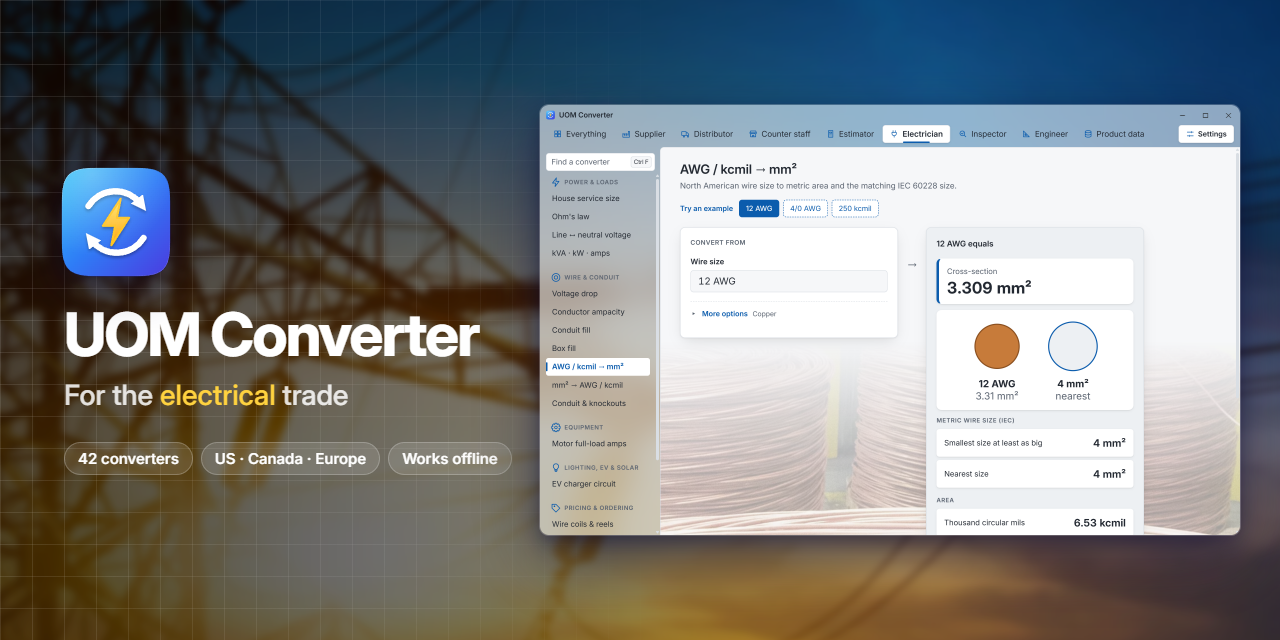
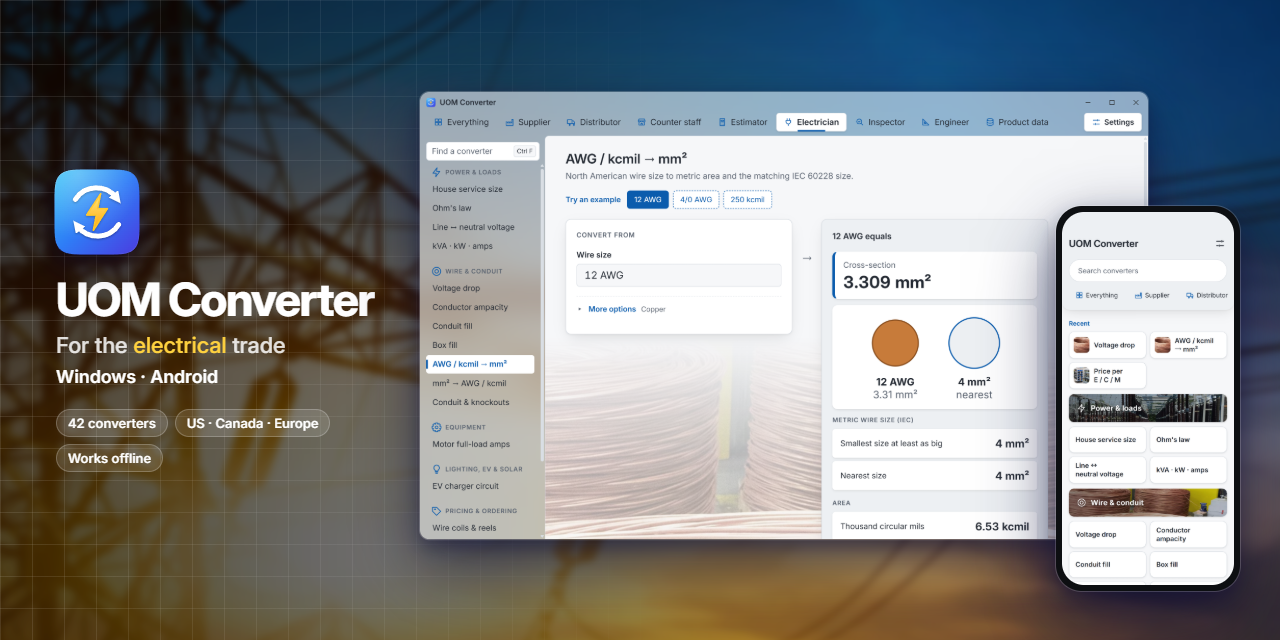
Social preview: both apps, the window and the phone larger
- The Android app's home screen, on a phone, in front of the Windows window
- "Windows · Android" under the tagline; the name and facts smaller
- android:store runs before windows:assets, and the render stops without the phone's capture

diff --git a/apps/windows/store-listing/generator/social.html b/apps/windows/store-listing/generator/social.html
@@ -1,7 +1,8 @@
 <!doctype html>
 <!-- GitHub's social preview, the card shown when the repo's link is shared: render.cjs loads this page at 1280 × 640 into
      docs/social-preview.png, which is uploaded in the repo's Settings. GitHub crops a little off the edges in places,
-     so everything stays 40px clear of them. The app is the promo shot's capture, and the words are in captions.js. -->
+     so everything stays 40px clear of them. It shows both apps: the Windows window is the promo shot's capture, and
+     the phone is the Android app's home screen, captured by `npm run android:store`. The words are in captions.js. -->
 <html lang="en">
   <head>
     <meta charset="utf-8" />
@@ -13,29 +14,30 @@
       /* The grid fades out behind the app. */
       body::after { mask-image: linear-gradient(90deg, #000 0%, rgba(0, 0, 0, 0.5) 34%, transparent 52%); }
 
-      .caption { position: absolute; left: 64px; top: 0; bottom: 0; width: 450px; display: flex; flex-direction: column; justify-content: center; }
-      .caption img { width: 112px; height: 112px; margin-left: -4px; filter: drop-shadow(0 10px 20px rgba(8, 10, 60, 0.5)); }
-      h1 { margin: 26px 0 0; font-size: 60px; line-height: 1; font-weight: 760; letter-spacing: -0.03em; font-variation-settings: "opsz" 32; }
-      .caption p { margin: 14px 0 0; font-size: 28px; font-weight: 520; color: rgba(255, 255, 255, 0.85); }
+      .caption { position: absolute; left: 56px; top: 0; bottom: 0; width: 340px; display: flex; flex-direction: column; justify-content: center; }
+      .caption img { width: 88px; height: 88px; margin-left: -3px; filter: drop-shadow(0 8px 16px rgba(8, 10, 60, 0.5)); }
+      h1 { margin: 20px 0 0; font-size: 46px; line-height: 1; font-weight: 760; letter-spacing: -0.03em; font-variation-settings: "opsz" 32; }
+      .caption p { margin: 10px 0 0; font-size: 22px; font-weight: 520; color: rgba(255, 255, 255, 0.85); }
       .caption p em { font-style: normal; color: var(--bolt); }
+      .caption .platforms { margin-top: 8px; font-size: 18px; font-weight: 600; color: #fff; }
 
-      .facts { display: flex; flex-wrap: wrap; gap: 8px; margin-top: 30px; }
+      .facts { display: flex; flex-wrap: wrap; gap: 7px; margin-top: 22px; }
       .facts span {
-        padding: 6px 13px;
+        padding: 5px 11px;
         border-radius: 999px;
-        font-size: 15px;
+        font-size: 13px;
         font-weight: 560;
         background: rgba(255, 255, 255, 0.12);
         border: 1px solid rgba(255, 255, 255, 0.22);
       }
 
-      /* The app window, as in shots.html: 1400 × 860 at half size, whole, with Windows 11's corners and a deep shadow. */
+      /* The app window, as in shots.html: 1400 × 860 at 0.52, whole, with Windows 11's corners and a deep shadow. */
       .window {
         position: absolute;
-        left: 540px;
-        top: 105px;
+        left: 420px;
+        top: 92px;
         width: 1400px;
-        transform: scale(0.5);
+        transform: scale(0.52);
         transform-origin: top left;
         border-radius: 18px;
         overflow: hidden;
@@ -50,6 +52,22 @@
       /* The minimize, maximize and close buttons Windows draws over the page's own title bar. */
       .caption-buttons { position: absolute; top: 0; right: 0; display: flex; color: #1c1b19; }
       .caption-buttons i { width: 46px; height: 40px; display: grid; place-items: center; font: normal 10px "Segoe Fluent Icons", "Segoe MDL2 Assets"; }
+
+      /* The phone, in the Play screenshots' slim black bezel (the Android app's shots.html), whole and in front of the
+         window's right edge, clear of its answer. */
+      .phone {
+        position: absolute;
+        left: 1056px;
+        top: 206px;
+        padding: 6px;
+        border-radius: 26px;
+        background: #0d0f12;
+        box-shadow:
+          0 0 0 1px rgba(255, 255, 255, 0.18),
+          0 30px 70px rgba(5, 8, 50, 0.65),
+          0 10px 24px rgba(5, 8, 50, 0.4);
+      }
+      .phone img { display: block; width: 172px; border-radius: 22px; }
     </style>
   </head>
   <body>
@@ -57,12 +75,14 @@
       <img src="../../../../packages/brand/app-icon.svg" alt="" />
       <h1>UOM Converter</h1>
       <p id="tagline"></p>
+      <p class="platforms">Windows · Android</p>
       <div class="facts" id="facts"></div>
     </div>
     <div class="window">
       <img src="../../build/shots/en/promo.png" alt="" />
       <div class="caption-buttons"><i>&#xE921;</i><i>&#xE922;</i><i>&#xE8BB;</i></div>
     </div>
+    <div class="phone"><img src="../../../android/build/shots/en/phone/home.png" alt="" /></div>
 
     <script src="captions.js"></script>
     <script>

diff --git a/docs/RELEASING.md b/docs/RELEASING.md
@@ -25,11 +25,12 @@ the `.aab` into `apps/android/dist/`. Commands run from the repo root.
    ```
 
 5. **Refresh the images** if the app's look, the icon or the screenshots' converters changed. This
-   also re-renders the website's icon and share image (below), which go live with its next deploy:
+   also re-renders the website's icon and share image (below), which go live with its next deploy.
+   Android first: the social preview, made with the Windows images, shows its phone capture:
 
    ```
-   npm run windows:assets
    npm run android:store
+   npm run windows:assets
    ```
 
 6. **Build:**
